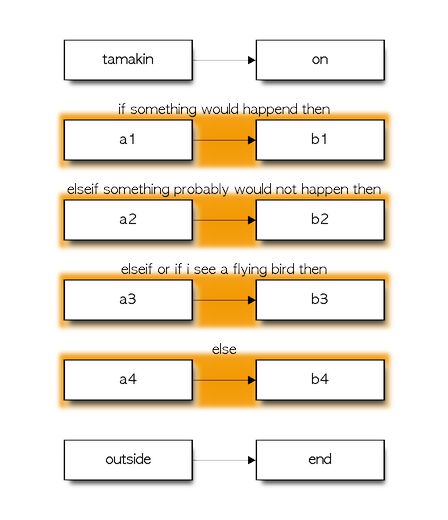
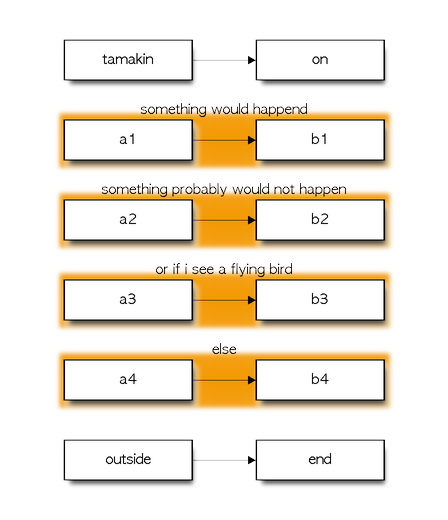
Made fixed size diamonds for dotty, elseif,if,then words filtered off the conditional labels in grammar

Changed region(s): [[0.1562, 0.3385, 0.8438, 0.4], [0.25, 0.1846, 0.75, 0.2462], [0.2812, 0.4923, 0.7188, 0.5538]]

diff --git a/generators/digraph.js b/generators/digraph.js
@@ -169,7 +169,7 @@ function digraph(yy) {
 										+ "[shape=circle,label=\"\",width=0.01,height=0.01];"));
 							}
 							//TODO:else does not need diamond
-							yy.result(indent(sn + "[shape=diamond,label=\""
+							yy.result(indent(sn + "[shape=diamond,fixedsize=true,width=1,height=1,label=\""
 									+ o.getLabel() + "\"];"));
 							if (cond=="if"){
 								//entrylink!
